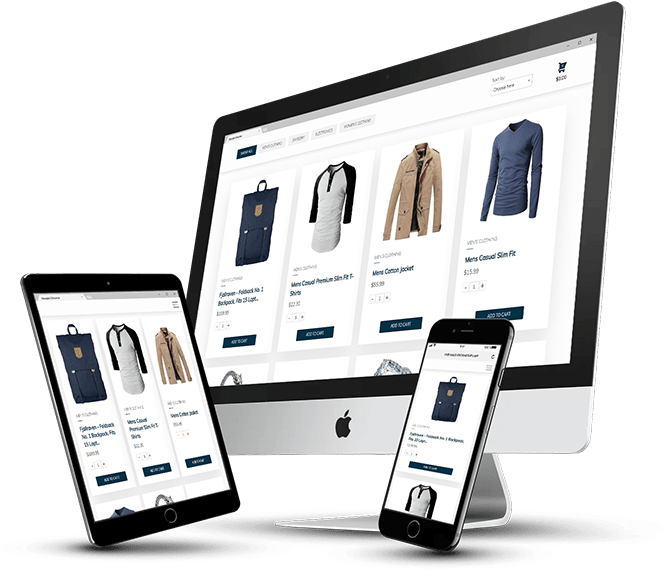
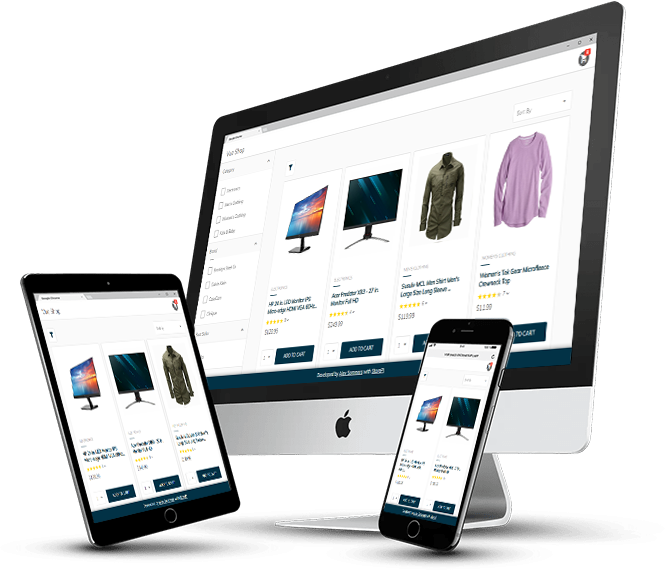
Update vue shop project and toolbox

diff --git a/src/views/ProjectShowcase.vue b/src/views/ProjectShowcase.vue
@@ -54,45 +54,6 @@ export default {
     return {
       projects: [
         {
-          title: 'AlexSommers.com',
-          description:
-            "This bad boy right here! I built it as a one-stop-shop to house my work, resume, and contact information. What's more, it's a way to document my journey and share it with others.",
-          tools: ['Vue.js', 'Vue Router', 'GSAP', 'SCSS', 'Netlify', 'Adobe XD'],
-          primaryCTA: 'View Demo',
-          primaryLink: 'https://alexsommers.com/',
-          secondaryCTA: 'View Code',
-          secondaryLink: 'https://github.com/alexsommers7/portfolio',
-          image: require('@/assets/project-showcase--alex-sommers.png'),
-          imageWebp: require('@/assets/project-showcase--alex-sommers.webp'),
-          alt: 'AlexSommers.com displayed on various devices',
-        },
-        {
-          title: 'Vue Shop',
-          description:
-            'A mock landing page for a shop, built with Vue.js. Features sorting, filtering, and cart functionality. Product and category data is fetched from a fake store API endpoint.',
-          tools: ['Vue.js', 'SCSS', 'Fake Store API', 'Foundation', 'Babel', 'Netlify'],
-          primaryCTA: 'View Demo',
-          primaryLink: 'https://vue-fake-shop.netlify.app/',
-          secondaryCTA: 'View Code',
-          secondaryLink: 'https://github.com/alexsommers7/vue-shop',
-          image: require('@/assets/project-showcase--vue-shop.png'),
-          imageWebp: require('@/assets/project-showcase--vue-shop.webp'),
-          alt: 'Vue Shop website displayed on various devices',
-        },
-        {
-          title: 'J.A Dancik Electric',
-          description:
-            'My first "real world" website! This client, a local electrician, wanted to keep the information basic and simply establish a way for current and future customers to contact them.',
-          tools: ['JavaScript', 'SCSS', 'HTML', 'Netlify', 'Adobe XD'],
-          primaryCTA: 'View Demo',
-          primaryLink: 'https://jadancikelectric.com/',
-          secondaryCTA: 'View Code',
-          secondaryLink: 'https://github.com/alexsommers7/ja-dancik-electric',
-          image: require('@/assets/project-showcase--jad-electric.png'),
-          imageWebp: require('@/assets/project-showcase--jad-electric.webp'),
-          alt: 'J.A. Dancik Electric website displayed on various devices',
-        },
-        {
           title: 'StorePI',
           description:
             'An open-source REST API that was created for use in e-commerce prototyping and Front-End Developer talent evaluations. Custom documentation is in progress.',
@@ -104,6 +65,32 @@ export default {
           image: require('@/assets/project-showcase--storepi.png'),
           imageWebp: require('@/assets/project-showcase--storepi.webp'),
           alt: 'StorePI documentation displayed on various devices',
+        },
+        {
+          title: 'Vue Shop',
+          description:
+            'A mock ecommerce landing page that demonstrates the capabilities of StorePI. Features sorting, filtering, and cart functionality with more to come.',
+          tools: ['Vue 3', 'Pinia', 'Quasar', 'StorePI', 'SCSS', 'Netlify'],
+          primaryCTA: 'View Demo',
+          primaryLink: 'https://vue-fake-shop.netlify.app/',
+          secondaryCTA: 'View Code',
+          secondaryLink: 'https://github.com/alexsommers7/vue-shop',
+          image: require('@/assets/project-showcase--vue-shop.png'),
+          imageWebp: require('@/assets/project-showcase--vue-shop.webp'),
+          alt: 'Vue Shop website displayed on various devices',
+        },
+        {
+          title: 'AlexSommers.com',
+          description:
+            "This bad boy right here! I built it as a one-stop-shop to house my work, resume, and contact information. What's more, it's a way to document my journey and share it with others.",
+          tools: ['Vue.js', 'Vue Router', 'GSAP', 'SCSS', 'Netlify', 'Adobe XD'],
+          primaryCTA: 'View Demo',
+          primaryLink: 'https://alexsommers.com/',
+          secondaryCTA: 'View Code',
+          secondaryLink: 'https://github.com/alexsommers7/portfolio',
+          image: require('@/assets/project-showcase--alex-sommers.png'),
+          imageWebp: require('@/assets/project-showcase--alex-sommers.webp'),
+          alt: 'AlexSommers.com displayed on various devices',
         },
         {
           title: 'Heritage Assisted Living',
@@ -130,6 +117,19 @@ export default {
           image: require('@/assets/project-showcase--lovely-hearts-az.png'),
           imageWebp: require('@/assets/project-showcase--lovely-hearts-az.webp'),
           alt: 'Lovely Hearts AZ website displayed on various devices',
+        },
+        {
+          title: 'J.A Dancik Electric',
+          description:
+            'My first "real world" website! This client, a local electrician, wanted to keep the information basic and simply establish a way for current and future customers to contact them.',
+          tools: ['JavaScript', 'SCSS', 'HTML', 'Netlify', 'Adobe XD'],
+          primaryCTA: 'View Demo',
+          primaryLink: 'https://jadancikelectric.com/',
+          secondaryCTA: 'View Code',
+          secondaryLink: 'https://github.com/alexsommers7/ja-dancik-electric',
+          image: require('@/assets/project-showcase--jad-electric.png'),
+          imageWebp: require('@/assets/project-showcase--jad-electric.webp'),
+          alt: 'J.A. Dancik Electric website displayed on various devices',
         },
       ],
     };

diff --git a/src/components/HomeProjects.vue b/src/components/HomeProjects.vue
@@ -62,6 +62,19 @@ export default {
           alt: 'StorePI documentation displayed on various devices',
         },
         {
+          title: 'Vue Shop',
+          description:
+            'A mock ecommerce landing page that demonstrates the capabilities of StorePI. Features sorting, filtering, and cart functionality with more to come.',
+          tools: ['Vue 3', 'Pinia', 'Quasar', 'StorePI', 'SCSS', 'Netlify'],
+          primaryCTA: 'View Demo',
+          primaryLink: 'https://vue-fake-shop.netlify.app/',
+          secondaryCTA: 'View Code',
+          secondaryLink: 'https://github.com/alexsommers7/vue-shop',
+          image: require('@/assets/project-showcase--vue-shop.png'),
+          imageWebp: require('@/assets/project-showcase--vue-shop.webp'),
+          alt: 'Vue Shop website displayed on various devices',
+        },
+        {
           title: 'Heritage Assisted Living',
           description:
             'A website for a local Assisted Living Facility. The owners of this business were looking for a way to tell their story in a visual manner as well as help in establishing their digital footprint.',

diff --git a/src/components/HomeAbout.vue b/src/components/HomeAbout.vue
@@ -53,16 +53,17 @@ export default {
           alt: 'Vue JavaScript Framework',
         },
         {
+          title: 'Quasar',
+          icon: require('@/assets/icons/quasar.svg'),
+          type: 'tech',
+          alt: 'Quasar Vue Framework',
+        },
+        {
           title: 'Alpine.js',
           icon: require('@/assets/icons/alpine.svg'),
           type: 'tech',
           class: 'brighten',
           alt: 'Alpine JavaScript Framework',
-        },
-        {
-          title: 'GSAP',
-          icon: require('@/assets/icons/gsap.svg'),
-          alt: 'Greensock Animation Platform (GSAP)',
         },
       ],
     };

diff --git a/src/components/HomeToolbox.vue b/src/components/HomeToolbox.vue
@@ -44,6 +44,18 @@ export default {
           alt: 'Vue JavaScript Framework',
         },
         {
+          title: 'Pinia',
+          icon: require('@/assets/icons/pinia.svg'),
+          type: 'tech',
+          alt: 'Pinia State Management Library',
+        },
+        {
+          title: 'Quasar',
+          icon: require('@/assets/icons/quasar.svg'),
+          type: 'tech',
+          alt: 'Quasar Vue Framework',
+        },
+        {
           title: 'Alpine.js',
           icon: require('@/assets/icons/alpine.svg'),
           type: 'tech',
